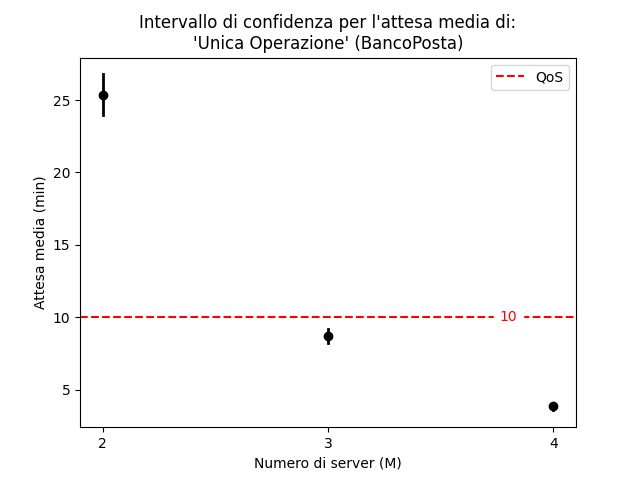
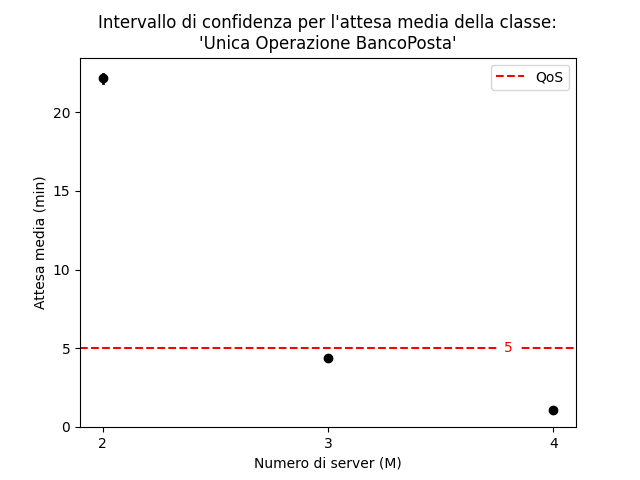
Sistemato il report, seguendo le indicazioni ricevute (SE SPERA)

diff --git a/doc/chapters/09-miglioria.tex b/doc/chapters/09-miglioria.tex
@@ -305,118 +305,117 @@ Per cui, poiché i valori teorici ricadono all'interno dei rispettivi intervalli
 \section{Esperimenti di simulazione}\label{sec:miglioria-esperimenti}
 In accordo agli obiettivi dello studio (sez. \ref{sec:miglioria-obiettivi}), è stata considerata unicamente l'analisi dello stato transiente del sistema, per gli stessi motivi discussi nel capitolo \ref{chp:esperimenti-simulazione}.
 
+\newpage
 \subsection{Progetto degli esperimenti}
-Per realizzare l'esperimento di simulazione è stata adottata, anche in questo caso, la tecnica \textit{replication}. Per semplicità, di seguito è riportata la configurazione dei parametri utilizzati:
+Dal capitolo \ref{chp:esperimenti-simulazione}, è stato individuato $M^* = 4$ come numero minimo di sportelli da mantenere operativi in una giornata lavorativa. Al fine di determinare un risultato più soddisfacente di quello precedentemente ottenuto, ovvero trovare $\accentset{\sim}{M} < M^*$ che continui a garantire gli stessi QoS (cap. \ref{chp:obiettivi}), è stata analizzata l'attesa media di ciascuna classe di utenza al variare di $M$.
+
+Per realizzare l'esperimento di simulazione è stata adottata la tecnica \textit{replication} utilizzando gli stessi parametri descritti e motivati in sezione \ref{sec:esperimenti-simulazione-1} che, per semplicità, sono di seguito riportati:
 \begin{itemize}
-\item \texttt{TERM\_INIT\_SEED = 9}
-\item \texttt{ENSEMBLE\_SIZE = 300}
-\item \texttt{START = 0}
-\item \texttt{STOP = 480}
+\item Il numero di repliche adottato nella simulazione è pari a \texttt{10000}.
+\item Il seme iniziale adottato è \texttt{9}, settato unicamente ad inizio simulazione.
+\item \texttt{START = 0} e \texttt{STOP = 480}.
 \end{itemize}
 
 Inoltre:
 \begin{itemize}
-\item È stato utilizzato il programma \texttt{estimate} per il calcolo delle realizzazioni degli intervalli di confidenza.
+\item È stato utilizzato il programma \texttt{estimate} per il calcolo delle realizzazioni degli intervalli di confidenza al 95\%.
 \item È stato utilizzato il programma \texttt{uvs} per il calcolo di media e deviazione standard.
 \end{itemize}
-
-Dal capitolo \ref{chp:esperimenti-simulazione}, è stato individuato $M^* = 4$ come numero minimo di sportelli da mantenere operativi in una giornata lavorativa. Al fine di determinare un risultato più soddisfacente di quello precedentemente ottenuto, ovvero trovare $\accentset{\sim}{M} < M^*$ continuando a garantire gli stessi QoS (cap. \ref{chp:obiettivi}), è stata analizzata l'attesa media di ciascun flusso d'arrivo al variare di $M$, seguendo lo stesso approccio utilizzato in \ref{sec:esperimenti-simulazione-1}.
 
 \subsection{Esecuzione degli esperimenti ed analisi degli output}
 I risultati dell'esperimento condotto sono riportati sia in forma tabellare (tab. \ref{table:miglioria-esperimenti-simulazione-1}) che in forma grafica (fig. \ref{fig:miglioria-esperimenti-simulazione-1}).
 
-È immediato osservare che, per raggiungere gli obiettivi precedentemente descritti, il numero minimo di serventi è $\accentset{\sim}{M} = 3$. Infatti, dalle figure \ref{fig:miglioria-esperimenti-simulazione-1a}, \ref{fig:miglioria-esperimenti-simulazione-1b}, \ref{fig:miglioria-esperimenti-simulazione-1c} e \ref{fig:miglioria-esperimenti-simulazione-1d}, si evince che con $M = 2$ non è possibile rispettare i corrispondenti QoS (in tabella \ref{table:miglioria-esperimenti-simulazione-1a} sono evidenziati in {\color{red}rosso} i valori di attesa che li superano).
+È immediato osservare che, per raggiungere gli obiettivi precedentemente descritti, il numero minimo di serventi è $\accentset{\sim}{M} = 3$. Infatti, dai risultati si evince che con $M = 2$ per nessuna classe di utenza è possibile rispettare i corrispondenti QoS.
 
 \newpage
 
 \subsection{Grafici e tabelle}
+\captionsetup[table]{justification=centering}
 \begin{table}[ht]
 \centering
-\begin{subtable}{0.33\textwidth}
+\begin{subtable}{0.5\textwidth}
 \centering
 {\tablecolors
-\begin{tabular}{|c|c|c|}
+\begin{tabular}{|c|c|c|c|}
 \hline
-$i$ & Media & Dev. std. \\
+$c$ & $\bar{d}_c$ & $s_c$ & $w$\\
 \hline
-0 & {\color{red}25.377} & 12.256 \\
+0 & 22.151 & 13.355 & 0.26 \\
 \hline
-1 & {\color{red}79.039} & 61.215 \\
+1 & 79.939 & 65.950 & 1.29 \\
 \hline
-2 & {\color{red}216.057} & 78.006 \\
+2 & 58.973 & 38.040 & 0.75 \\
 \hline
-3 & {\color{red}358.342} & 110.317 \\
+3 & 89.820 & 52.962 & 1.04 \\
 \hline
-4 & 19.265 & 14.421 \\
+4 & 11.623 & 8.055 & 0.16 \\
 \hline
-5 & 48.454 & 34.731 \\
+5 & 19.848 & 12.367 & 0.24 \\
 \hline
 \end{tabular}}
 \caption{$M = 2$}
-\label{table:miglioria-esperimenti-simulazione-1a}
 \end{subtable}%
-\begin{subtable}{0.33\textwidth}
+\begin{subtable}{0.5\textwidth}
 \centering
 {\tablecolors
-\begin{tabular}{|c|c|c|}
+\begin{tabular}{|c|c|c|c|}
 \hline
-$i$ & Media & Dev. std. \\
+$c$ & $\bar{d}_c$ & $s_c$ & $w$\\
 \hline
-0 & 8.690 & 4.086 \\
+0 & 4.378 & 3.267 & 0.06 \\
 \hline
-1 & 13.984 & 9.231 \\
+1 & 7.505 & 8.163 & 0.16 \\
 \hline
-2 & 48.015 & 33.204 \\
+2 & 7.139 & 7.127 & 0.14 \\
 \hline
-3 & 126.800 & 72.557 \\
+3 & 12.595 & 13.161 & 0.26 \\
 \hline
-4 & 18.161 & 11.651 \\
+4 & 9.137 & 7.582 & 0.15 \\
 \hline
-5 & 47.876 & 36.553 \\
+5 & 15.122 & 11.594 & 0.23 \\
 \hline
 \end{tabular}}
 \caption{$M = 3$}
-\end{subtable}%
-\begin{subtable}{0.33\textwidth}
+\end{subtable}
+\begin{subtable}{0.5\textwidth}
 \centering
 {\tablecolors
-\begin{tabular}{|c|c|c|}
+\begin{tabular}{|c|c|c|c|}
 \hline
-$i$ & Media & Dev. std. \\
+$c$ & $\bar{d}_c$ & $s_c$ & $w$\\
 \hline
-0 & 3.830 & 2.359 \\
+0 & 1.074 & 1.152 & 0.02 \\
 \hline
-1 & 5.015 & 4.178 \\
+1 & 1.445 & 2.059 & 0.04 \\
 \hline
-2 & 10.169 & 8.748 \\
+2 & 1.351 & 1.353 & 0.03 \\
 \hline
-3 & 28.515 & 29.343 \\
+3 & 2.130 & 2.558 & 0.05 \\
 \hline
-4 & 15.978 & 12.133 \\
+4 & 6.416 & 6.474 & 0.13 \\
 \hline
-5 & 38.608 & 33.608 \\
+5 & 10.045 & 8.995 & 0.18 \\
 \hline
 \end{tabular}}
 \caption{$M = 4$}
 \end{subtable}
-\caption{Attesa espressa in minuti, per ciascun flusso $i$, al variare di $M$}
+\caption{Media ($\bar{d}_c$), deviazione standard ($s_c$) e ampiezza dell'intervallo di confidenza al 95\% ($w$) per l'attesa (espressa in minuti) di ciascuna classe d'utenza $c$, al variare di $M$}
 \label{table:miglioria-esperimenti-simulazione-1}
 \end{table}
 
+\captionsetup[figure]{justification=centering}
 \begin{figure}[ht]
 \centering
 \begin{subfigure}[b]{0.475\textwidth}
 \centering
 \includegraphics[width=\textwidth]{plots/d0-trans-imp}
-\caption{\uo{} BP}
-\label{fig:miglioria-esperimenti-simulazione-1a}
+\caption{\uo{} \textsl{BancoPosta}}    
 \end{subfigure}
 \hfill    
 \begin{subfigure}[b]{0.475\textwidth}  
 \centering 
 \includegraphics[width=\textwidth]{plots/d1-trans-imp}
-\caption{\pp{} BP}
-\label{fig:miglioria-esperimenti-simulazione-1b} 
+\caption{\pp{} \textsl{BancoPosta}}    
 \end{subfigure}
 
 \vskip\baselineskip
@@ -424,15 +423,13 @@ $i$ & Media & Dev. std. \\
 \begin{subfigure}[b]{0.475\textwidth}   
 \centering 
 \includegraphics[width=\textwidth]{plots/d2-trans-imp}
-\caption{\uo{} STD}
-\label{fig:miglioria-esperimenti-simulazione-1c}
+\caption{\uo{} \textsl{Standard}}    
 \end{subfigure}
 \hfill
 \begin{subfigure}[b]{0.475\textwidth}   
 \centering 
 \includegraphics[width=\textwidth]{plots/d3-trans-imp}
-\caption{\pp{} STD}
-\label{fig:miglioria-esperimenti-simulazione-1d}
+\caption{\pp{} \textsl{Standard}} 
 \end{subfigure}
 
 \vskip\baselineskip
@@ -440,14 +437,14 @@ $i$ & Media & Dev. std. \\
 \begin{subfigure}[b]{0.475\textwidth}   
 \centering 
 \includegraphics[width=\textwidth]{plots/d4-trans-imp}
-\caption{\sr{} BP}    
+\caption{\sr{} \textsl{BancoPosta}}    
 \end{subfigure}
 \hfill
 \begin{subfigure}[b]{0.475\textwidth}   
 \centering 
 \includegraphics[width=\textwidth]{plots/d5-trans-imp}
-\caption{\sr{} STD}    
+\caption{\sr{} \textsl{Standard}}    
 \end{subfigure}
-\caption{Attesa espressa in minuti, per ciascun flusso, al variare di $M$}
+\caption{Intervalli di confidenza al 95\% per l'attesa media (espressa in minuti) di ciascuna classe d'utenza, al variare di $M$}
 \label{fig:miglioria-esperimenti-simulazione-1}
 \end{figure}

diff --git a/src/estimate.c b/src/estimate.c
@@ -16,7 +16,6 @@
 #include <math.h>
 #include <stdio.h>
 #include "rvms.h"
-#include "utils.h"
 
 #define LOC 0.95                       /* level of confidence,        */ 
                                        /* use 0.95 for 95% confidence */
@@ -44,10 +43,10 @@
     u = 1.0 - 0.5 * (1.0 - LOC);              /* interval parameter  */
     t = idfStudent(n - 1, u);                 /* critical value of t */
     w = t * stdev / sqrt(n - 1);              /* interval half width */
-    // printf("\nbased upon %ld data points", n);
-    // printf(" and with %d%% confidence\n", (int) (100.0 * LOC + 0.5));
-    // printf("the expected value is in the interval");
-    printf("%.2f,%.2f\n", mean, w);
+    printf("\nbased upon %ld data points", n);
+    printf(" and with %d%% confidence\n", (int) (100.0 * LOC + 0.5));
+    printf("the expected value is in the interval");
+    printf("%10.2f +/- %6.2f\n", mean, w);
   }
   else
     printf("ERROR - insufficient data\n");

diff --git a/src/uvs.c b/src/uvs.c
@@ -36,9 +36,7 @@
  */
 
 #include <stdio.h>                             
-#include <math.h>  
-
-#include "utils.h"
+#include <math.h>                                
 
 
   int main(void)
@@ -76,13 +74,11 @@
 
   if (index > 0) {
     stdev = sqrt(sum / index);
-    // printf("\nfor a sample of size %ld\n", index);
-    // printf("mean ................. = %7.3f\n", mean);
-    // printf("standard deviation ... = %7.3f\n", stdev);
-    // printf("minimum .............. = %7.3f\n", min);
-    // printf("maximum .............. = %7.3f\n", max);
-
-    // printf("\\hline\n%d & %.3f & %.3f \\\\\n", (int) BREAK_TIME, mean, stdev);
+    printf("\nfor a sample of size %ld\n", index);
+    printf("mean ................. = %7.3f\n", mean);
+    printf("standard deviation ... = %7.3f\n", stdev);
+    printf("minimum .............. = %7.3f\n", min);
+    printf("maximum .............. = %7.3f\n", max);
   }
 
   return (0);

diff --git a/doc/chapters/04-modello-specifiche.tex b/doc/chapters/04-modello-specifiche.tex
@@ -4,24 +4,20 @@ Le seguenti variabili matematiche, definite per ogni istante di tempo $t$, ident
 \begin{itemize}
 \item Lo stato dello sportello $r$-esimo è dato da:
 \begin{equation}
-\label{eqn:modello-specifiche-3}
 Server_r(t) \in \lbrace 0, 1 \rbrace
 \end{equation}
 \item Per ciascuna classe $c$ il numero totale di clienti è definito come:
 \begin{equation}
-\label{eqn:modello-specifiche-2}
 Customers_c(t) \in \mathbb{N}
 \end{equation}
 \item Per ciascuna classe $c$ il numero di clienti in servizio è definito come segue:
 \begin{itemize}
 \item Per $c$ diversa da \sr{} \textsl{BancoPosta} e \sr{} \textsl{Standard}:
 \begin{equation}
-\label{eqn:modello-specifiche-2}
 InService_c(t) \in \lbrace 0, 1, \dots, M \rbrace
 \end{equation}
 \item Altrimenti:
 \begin{equation}
-\label{eqn:modello-specifiche-2}
 InService_c(t) \in \lbrace 0, 1 \rbrace
 \end{equation}
 \end{itemize}
